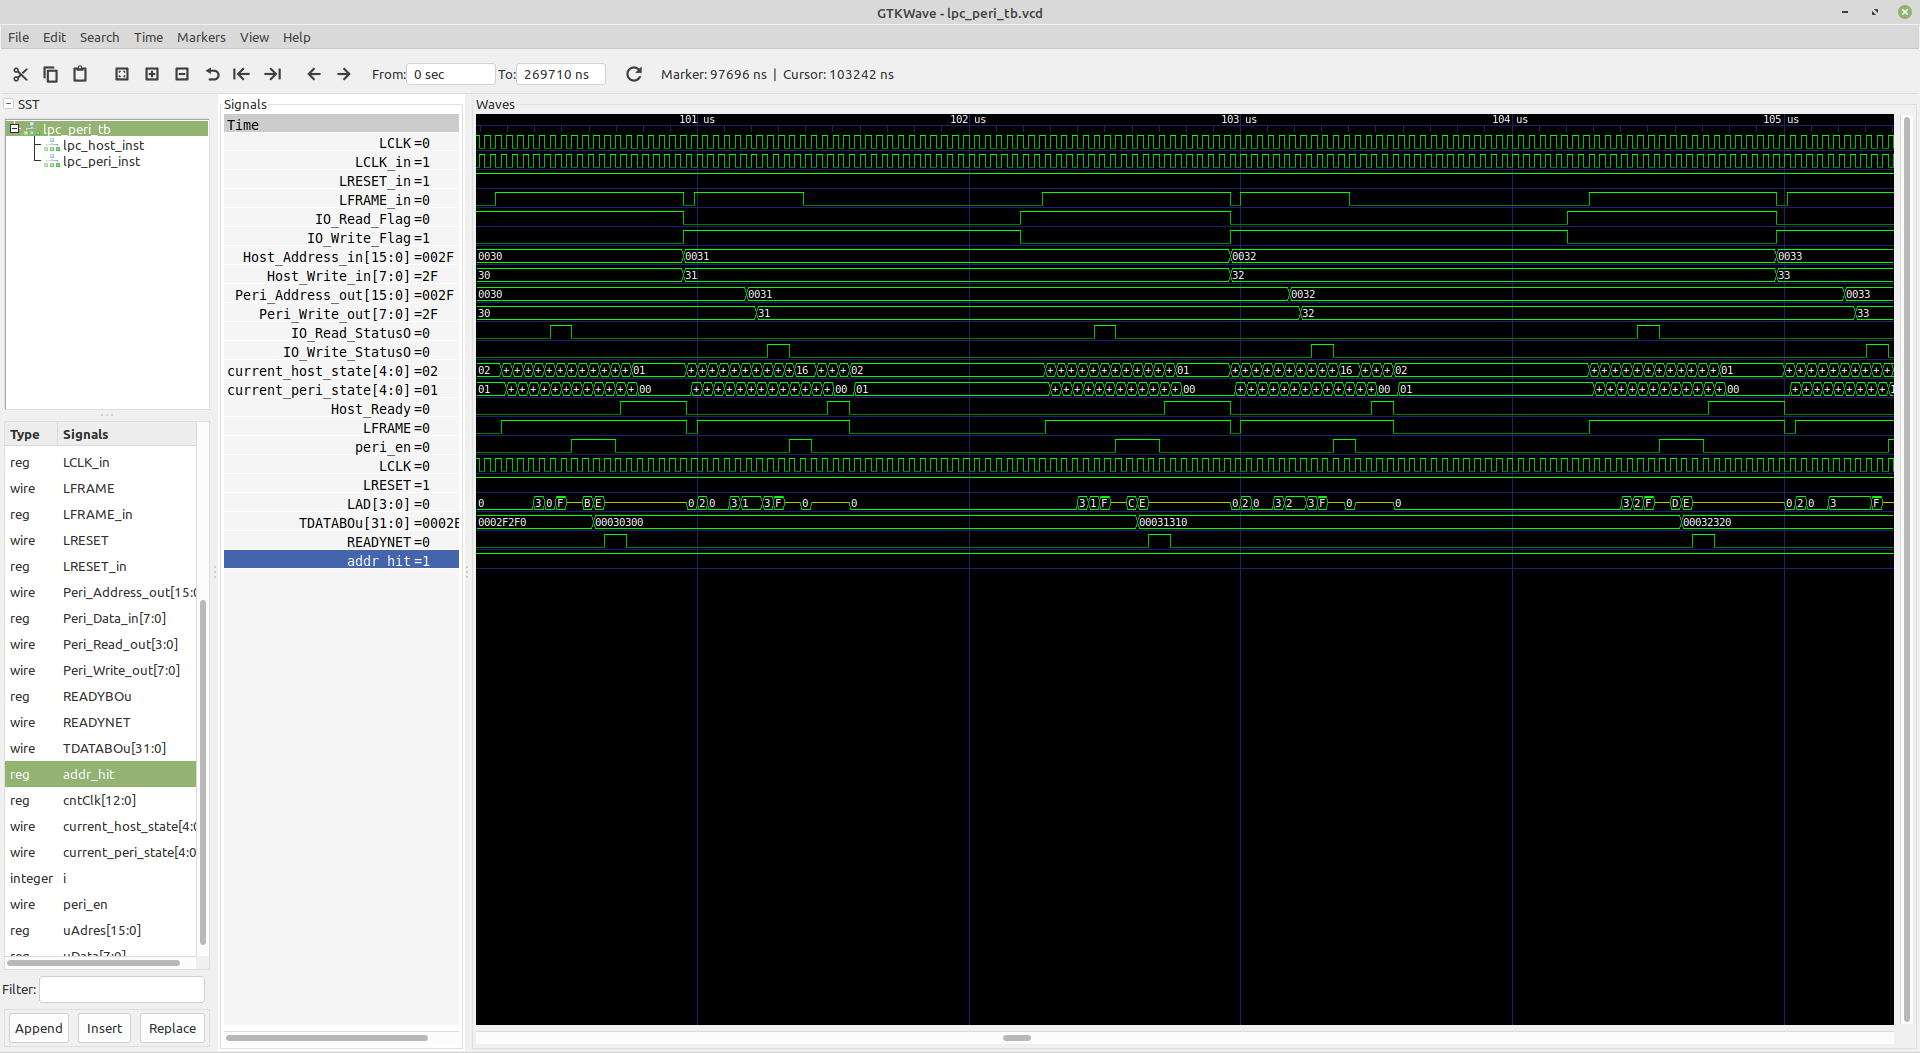
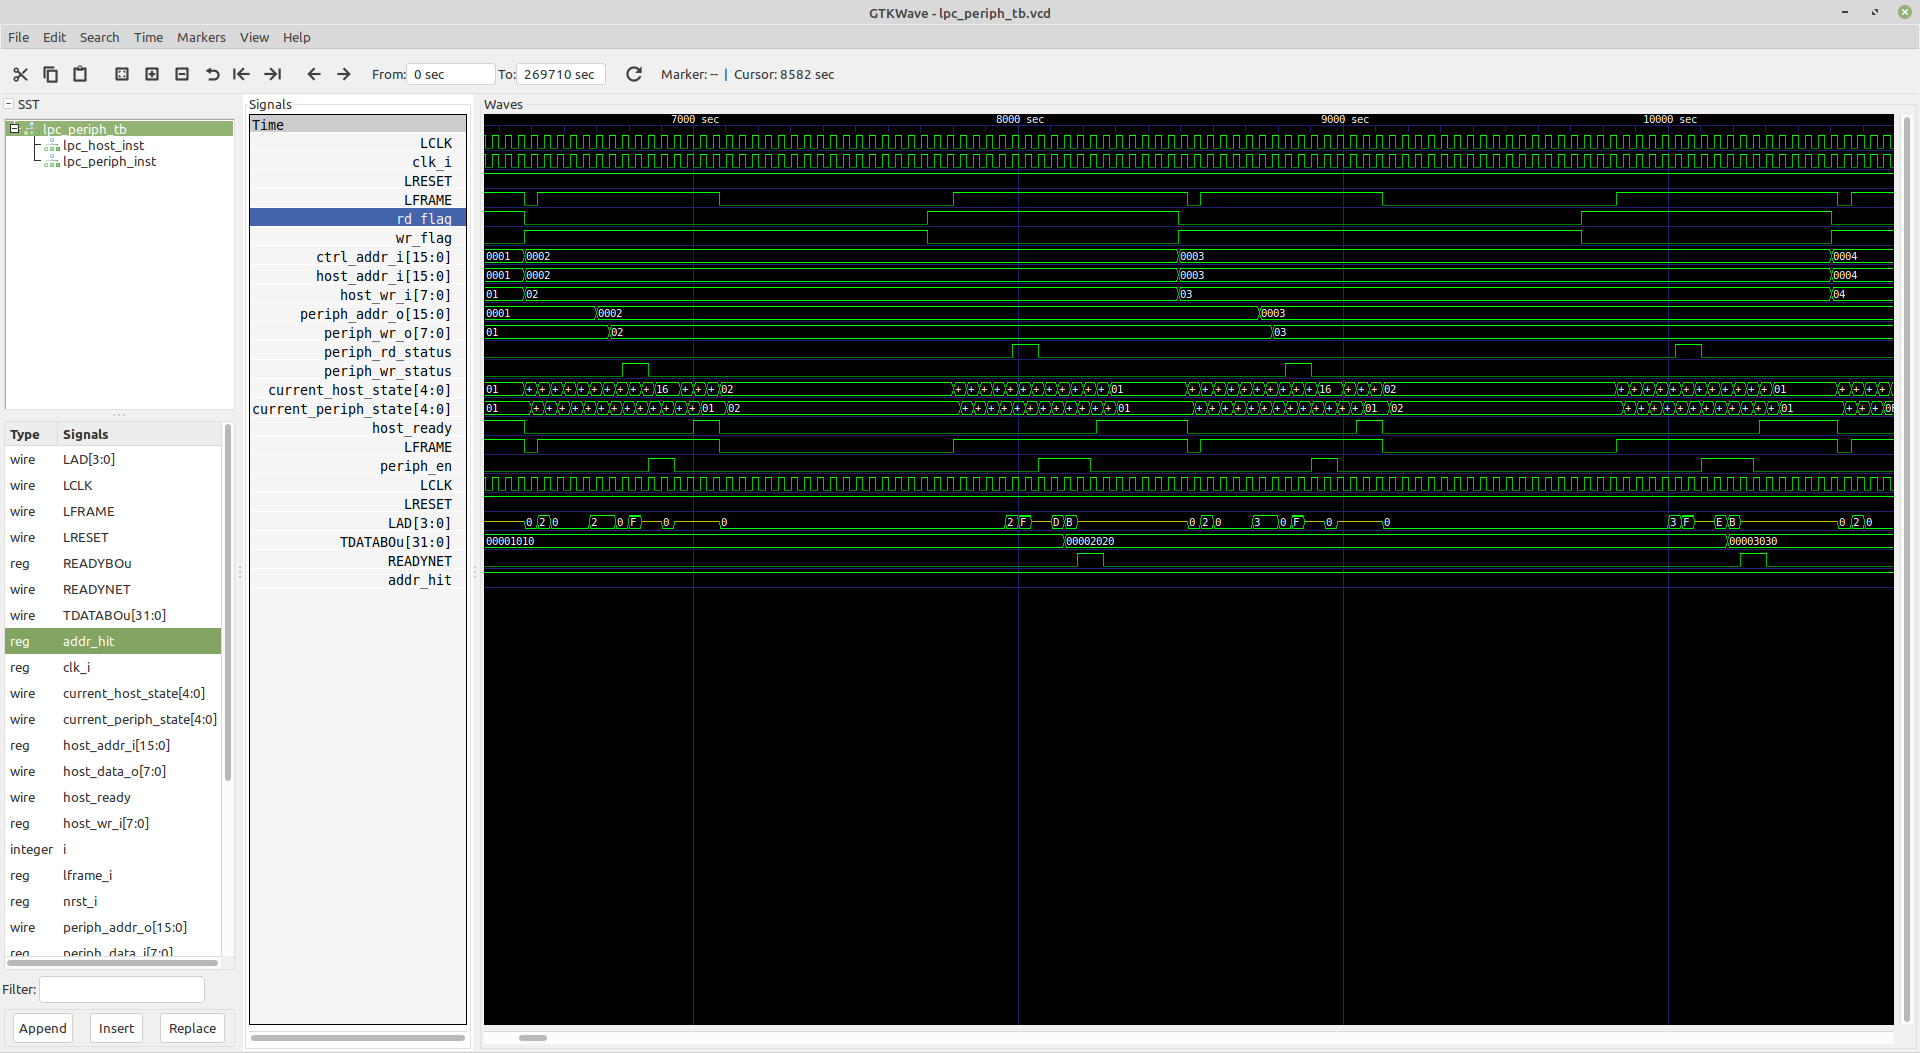
docs/TPM_with_LPC_protocol.md : simulation results description updated

diff --git a/docs/TPM_with_LPC_protocol.md b/docs/TPM_with_LPC_protocol.md
@@ -338,17 +338,17 @@ simulate the `LPC Peripheral` module can be found in
 ![LPC Peripheral simulation 01](images/LPC_Peripheral_SIM_01.png)
 Let's first look at basic LPC protocol signals:
 
-* LCLK_in is LPC clock 33,3 Mhz
+* clk_i is LPC clock 33,3 Mhz
 * LRESET_in is LPC reset
-* LFRAME_in - Low state marks new LPC cycle
-* IO_Read_StatusO - High state marks read cycle
-* IO_Write_Status - high state marks write cycle
-* Host_Ready - tells that Host is ready to handle next cycle
-* peri_en - tells that LPC Peripheral is ready for next cycle
+* LFRAME - Low state marks new LPC cycle
+* rd_flag - High state marks read cycle
+* wr_flag - high state marks write cycle
+* host_ready - tells that Host is ready to handle next cycle
+* periph_en - tells that LPC Peripheral is ready for next cycle
 
 What is also very important:
 
-* current_peri_state[4:0] - this is 4-bit value of current peripheral FSM state
+* current_periph_state[4:0] - this is 4-bit value of current peripheral FSM state
 * current_host_state[4:0] - this is 4-bit value of current host FSM state
 
 One can see that states on the LPC peripheral mimics the states from LPC Host
@@ -363,14 +363,14 @@ simulation.
 On the second screen from `GTKWave` the time scale is a little different from
 the previous screen. Important signals here are:
 
-* Host_Address_in[15:0] - this is LPC address on LPC Host
-* Host_Write_in[7:0] - this is 8-bit LPC data on LPC Host
+* host_addr_i[15:0] - this is LPC address on LPC Host
+* host_wr_i[7:0] - this is 8-bit LPC data on LPC Host
 
 One can see that these address and data with some delay appears on `LPC
 Peripheral` signals:
 
-* Peri_Address_out[15:0] - received from Host LPC address
-* Peri_Write_out[7:0] - received from Host LPC cycle data
+* periph_addr_o[15:0] - received from Host LPC address
+* periph_wr_o[7:0] - received from Host LPC cycle data
 
 And finally, one can see that `LPC Address` and `LPC Data` appear with some
 delay on `TDATABou[31:0]` - on this 32-bit bus are written `LPC Address` and
